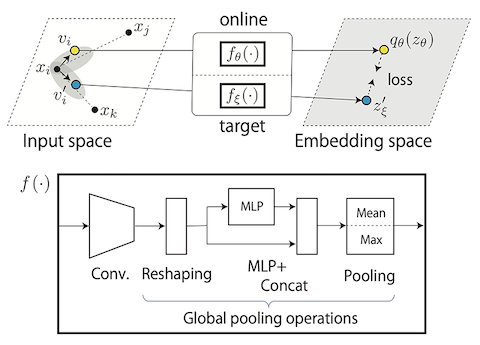
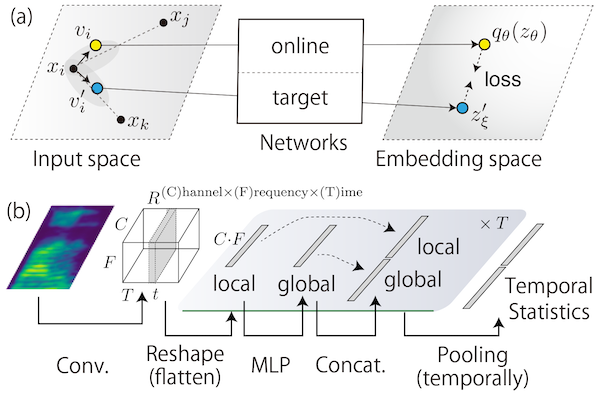
Update README and key visual image.

diff --git a/v2/README.md b/v2/README.md
@@ -8,12 +8,13 @@
     author={Daisuke Niizumi and Daiki Takeuchi and Yasunori Ohishi and Noboru Harada and Kunio Kashino},
     journal={arXiv preprint arXiv:2204.07402},
     year={2022},
+    url={https://arxiv.org/abs/2204.07402},
     archivePrefix={arXiv},
     primaryClass={eess.AS}
 }
 ```
 
-This sub-repository provides code of the new version of BYOL-A, which updates:
+This sub-repository provides code of the [new version of BYOL-A](https://arxiv.org/abs/2204.07402), which updates:
 
 - The augmentation module and network structure are extended.
 - We evaluate our models using [EVAR](https://github.com/nttcslab/eval-audio-repr), enabling comparison with other publicly available pre-trained audio models on various downstream tasks.
@@ -52,7 +53,9 @@ python train_v2.py work/16k/fsd50k/FSD50K.dev_audio
 
 ### 3-1. Evaluating Representations In Your Tasks
 
-This is an example to calculate a feature vector for an audio sample.
+This example shows how to extract a feature vector of an audio sample from [SPCV2](https://arxiv.org/abs/1804.03209).
+
+*NOTE:* You need to calculate the statistics (mean and std) for normalization in advance, such as `stats` found below.
 
 ```python
 from byol_a2.common import load_yaml_config
@@ -66,8 +69,11 @@ device = torch.device('cuda')
 cfg = load_yaml_config('config_v2.yaml')
 print(cfg)
 
-# Mean and standard deviation of the log-mel spectrogram of input audio samples, pre-computed.
-# Unlike the previous example, this example use the values from runtime EVAR terminal output.
+# ** Prepare the statistics in advance **
+# The followings are mean and standard deviation of the log-mel spectrogram of input audio samples.
+# For the SPCV2, this is calculated by using the EVAR terminal output:
+#     > byol-a/v2/evar$ python lineareval.py config/byola2.yaml spcv2
+#     >   :
 #     > using spectrogram norimalization stats: [-9.660292   4.7219563]
 stats = [-9.660292, 4.7219563]
 

diff --git a/README.md b/README.md
@@ -10,7 +10,7 @@ This is a demo implementation of BYOL for Audio (BYOL-A), a self-supervised lear
 
 UPDATE: We have two papers for BYOL-A.
 If you find BYOL-A useful in your research, please use either of the following BibTeX entries for citation.
-The former is the first paper from IJCNN2021, and the latter is currently under review.
+The former is the first paper from IJCNN2021 ([LINK to IEEE Xplore](http://dx.doi.org/10.1109/IJCNN52387.2021.9534474)), and the latter is currently under review ([LINK to arxiv](https://arxiv.org/abs/2204.07402)).
 
 ```BibTeX
 @inproceedings{niizumi2021byol-a,
@@ -116,7 +116,8 @@ device = torch.device('cuda')
 cfg = load_yaml_config('config.yaml')
 print(cfg)
 
-# Mean and standard deviation of the log-mel spectrogram of input audio samples, pre-computed.
+# ** Prepare the statistics in advance **
+# You need to calculate the statistics of mean and standard deviation of the log-mel spectrogram of your dataset.
 # See calc_norm_stats in evaluate.py for your reference.
 stats = [-5.4919195,  5.0389895]
 
